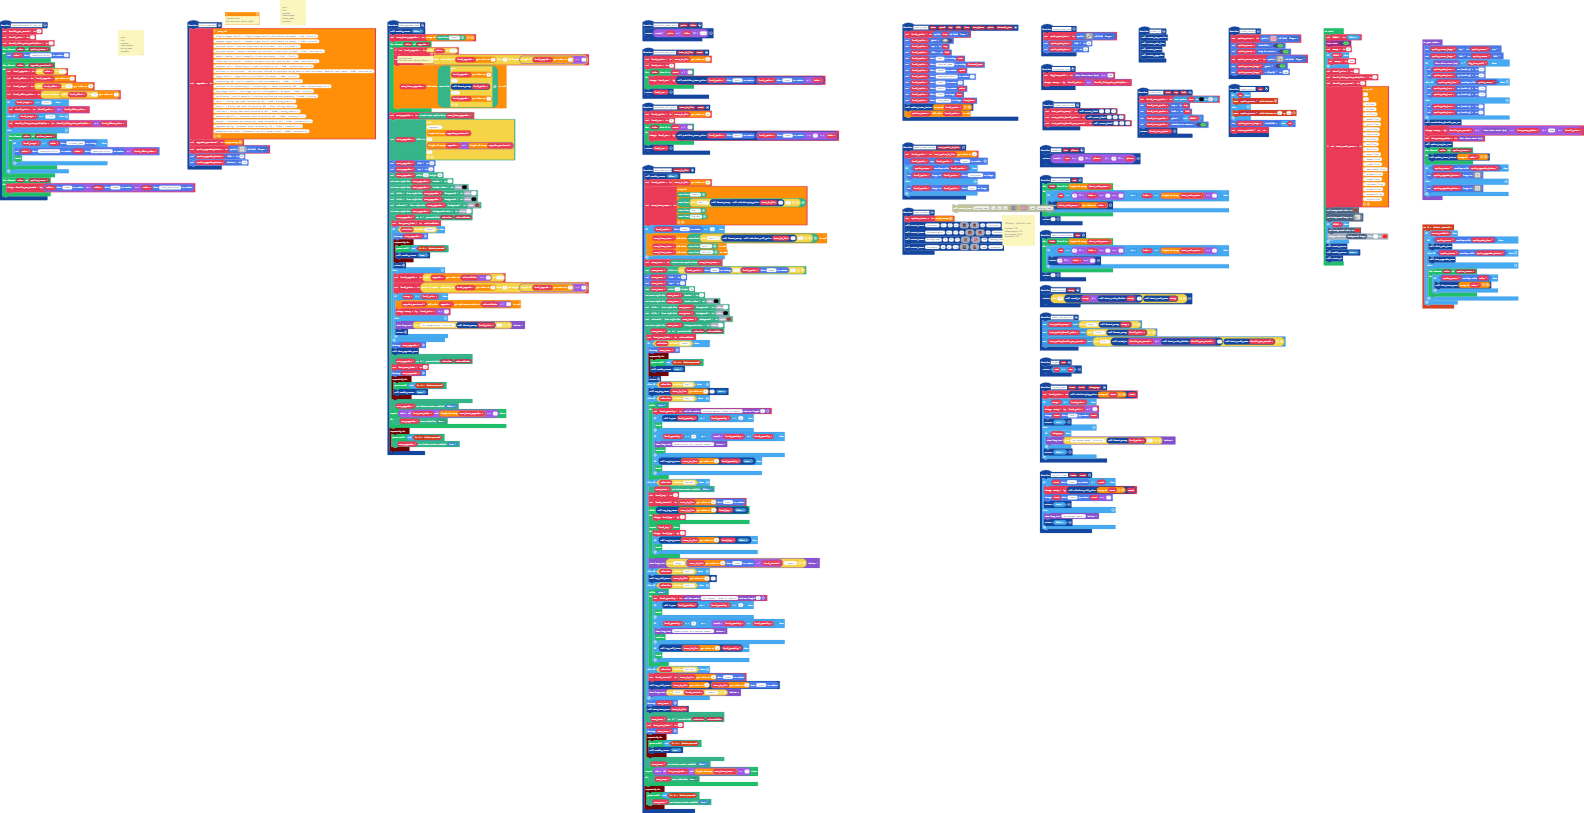
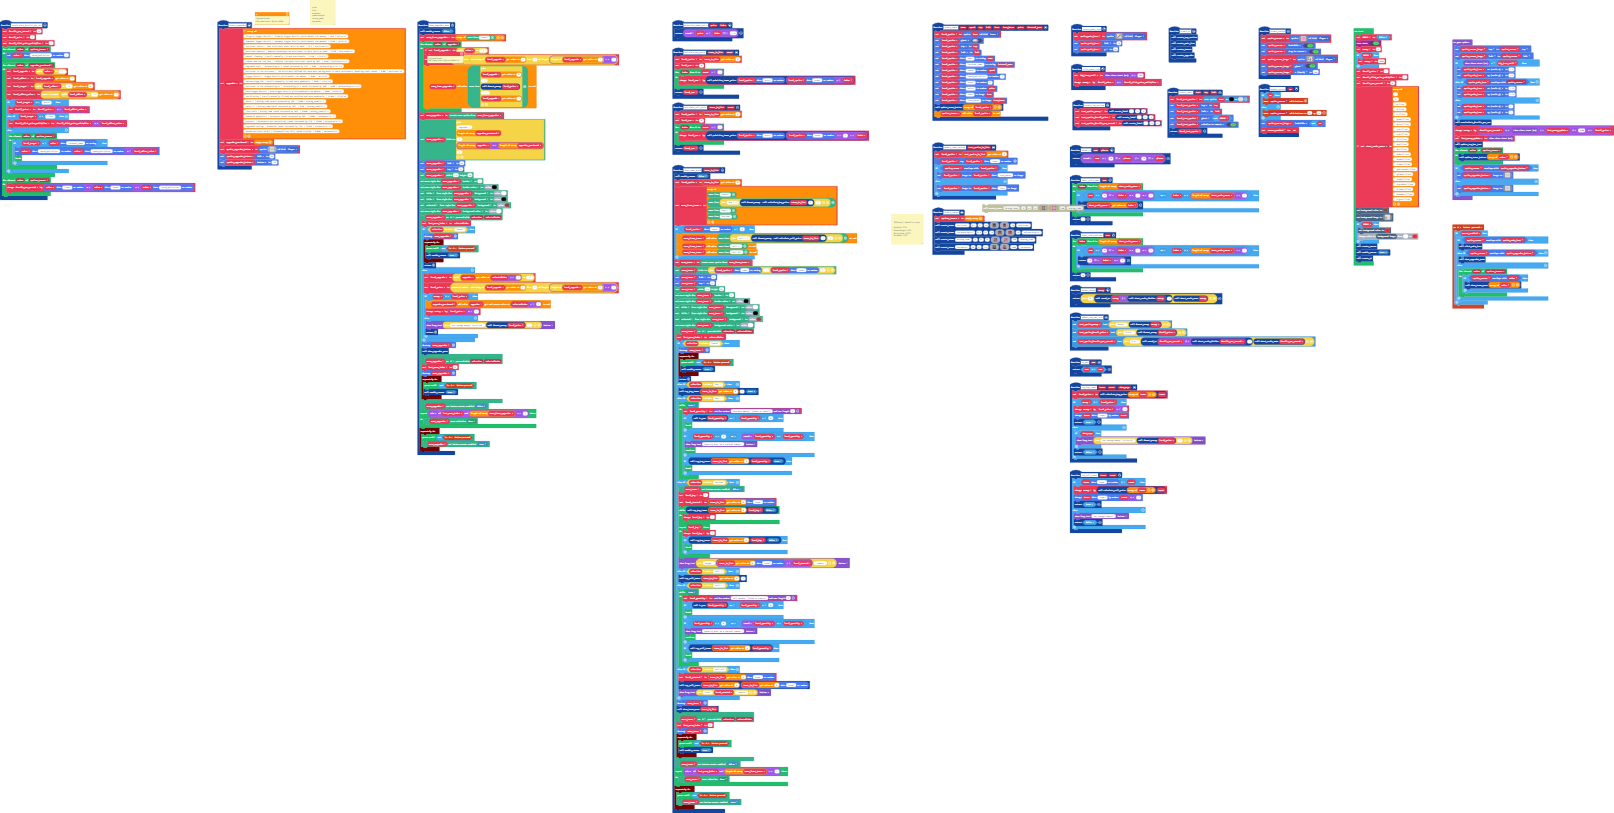
Rearrange blocks

Changed region(s): [[0.0, 0.0, 0.959, 1.0], [0.8971, 0.2768, 0.959, 0.369], [0.0, 0.0308, 0.0309, 0.0615]]

diff --git a/main.ts b/main.ts
@@ -2,6 +2,17 @@ namespace SpriteKind {
     export const Tower = SpriteKind.create()
 }
 /**
+ * "Efficiency": (delta F/s / price)
+ * 
+ * Assistant: 0.01
+ * 
+ * Paleontologist: 0.01
+ * 
+ * Mining team: 0.025
+ * 
+ * Excavator: 0.05
+ */
+/**
  * price
  * 
  * click
@@ -160,17 +171,6 @@ function short_scale_divider (num: number) {
     }
     return 0
 }
-/**
- * "Efficiency": (delta F/s / price)
- * 
- * Assistant: 0.01
- * 
- * Paleontologist: 0.01
- * 
- * Mining team: 0.025
- * 
- * Excavator: 0.05
- */
 function create_towers () {
     sprites_towers = []
     create_tower("Assistant", 0.1, 47, 48, assets.image`assistant_icon`, assets.image`assistant_icon_selected`, 10, "assistant")
@@ -332,19 +332,6 @@ function short_scale_name (num: number) {
     }
     return 1
 }
-/**
- * price
- * 
- * click
- * 
- * assistant
- * 
- * paleontologist
- * 
- * mining_team
- * 
- * excavator
- */
 function recalculate_fossils_per_sec () {
     fossils_per_second = 0
     fossil_price = 1
